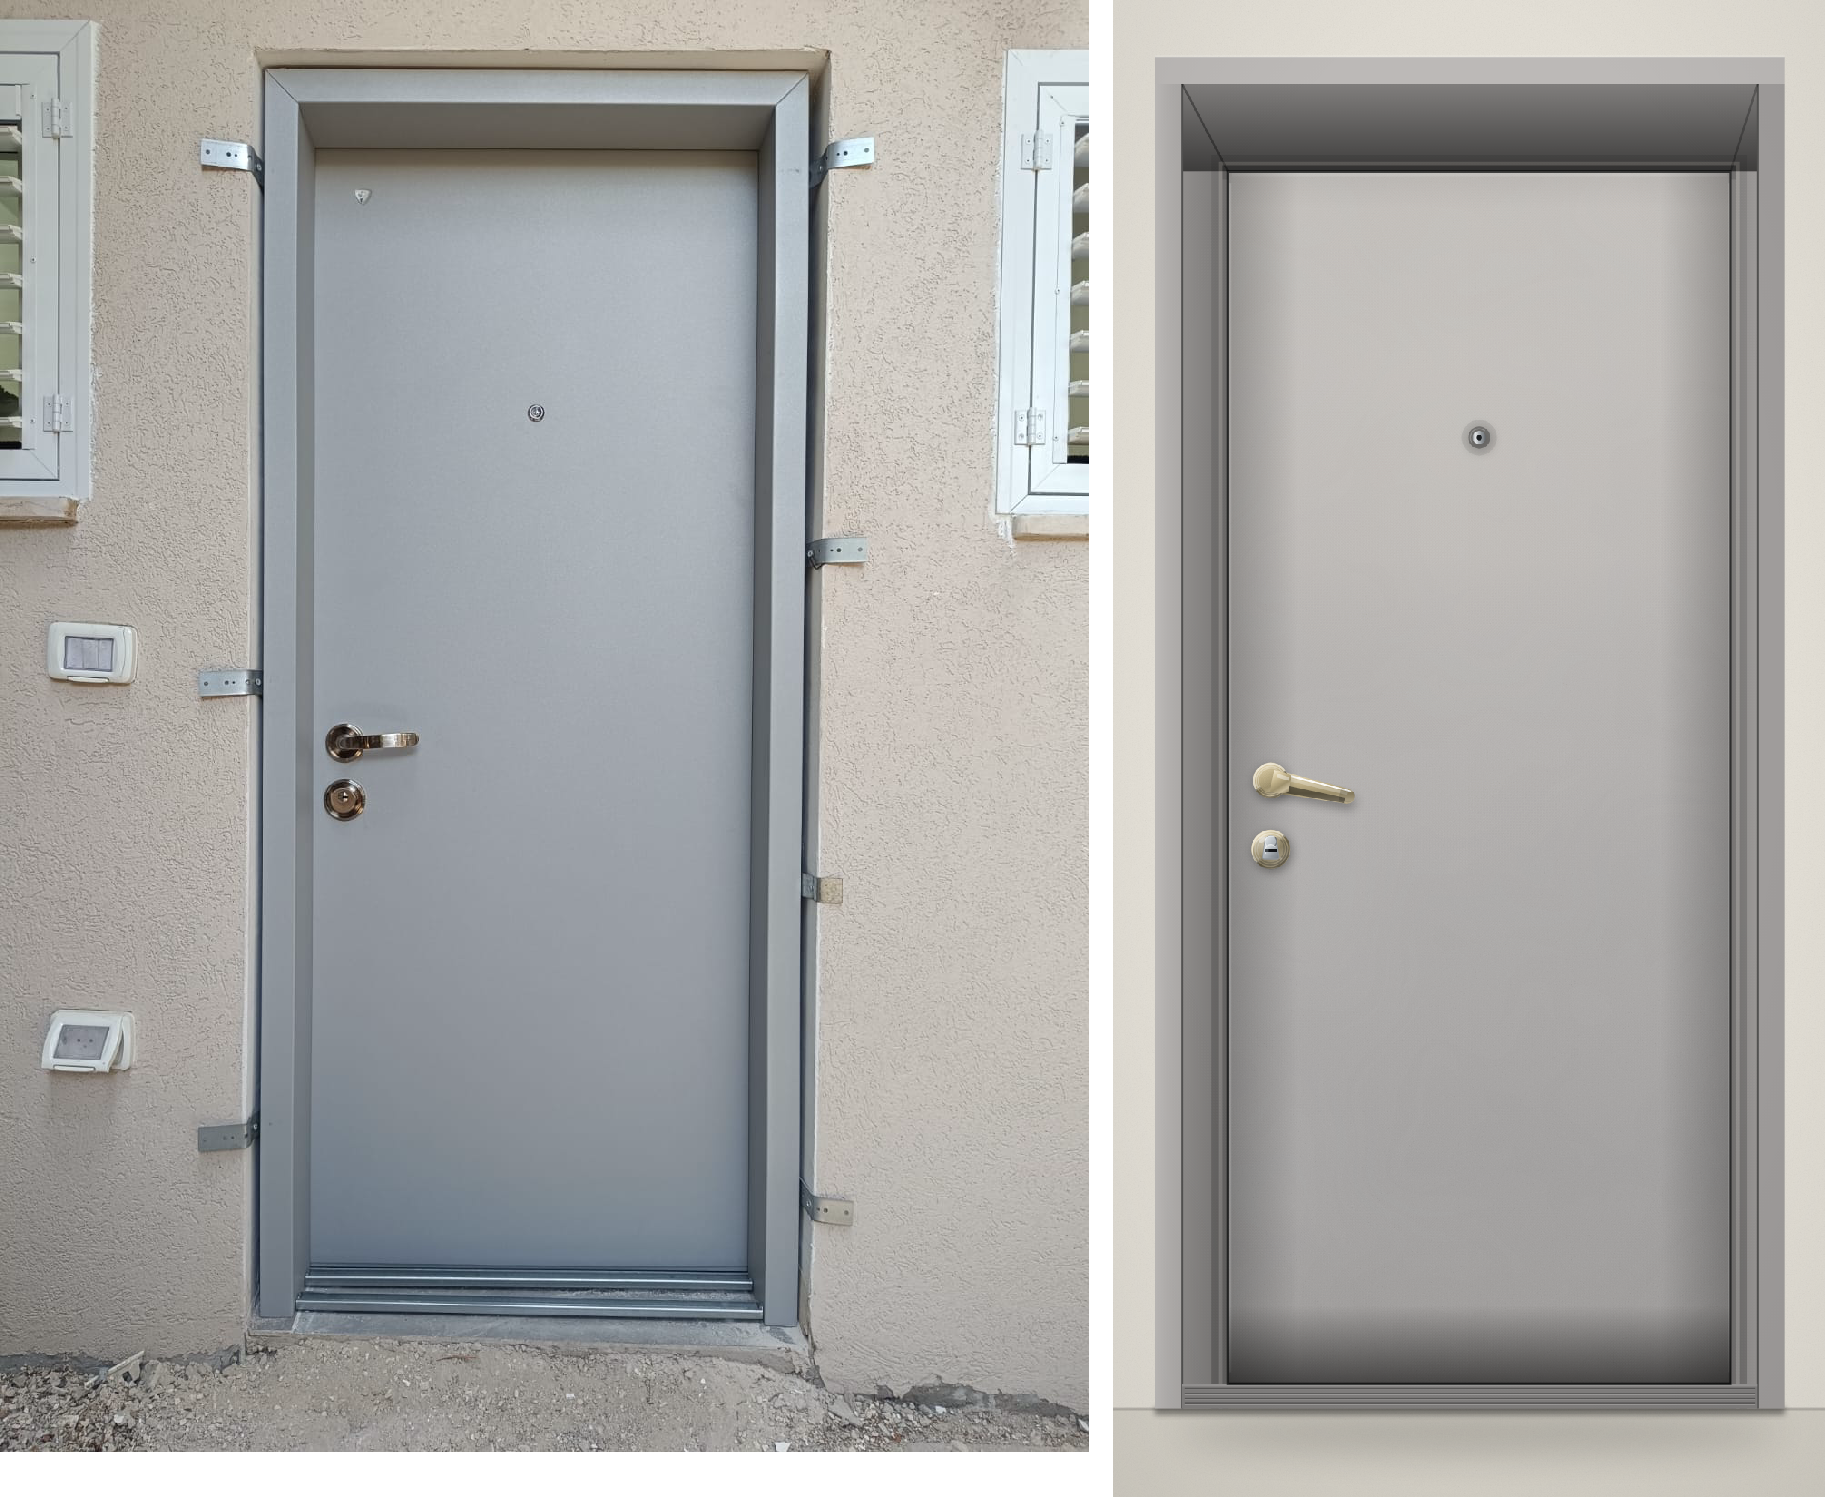
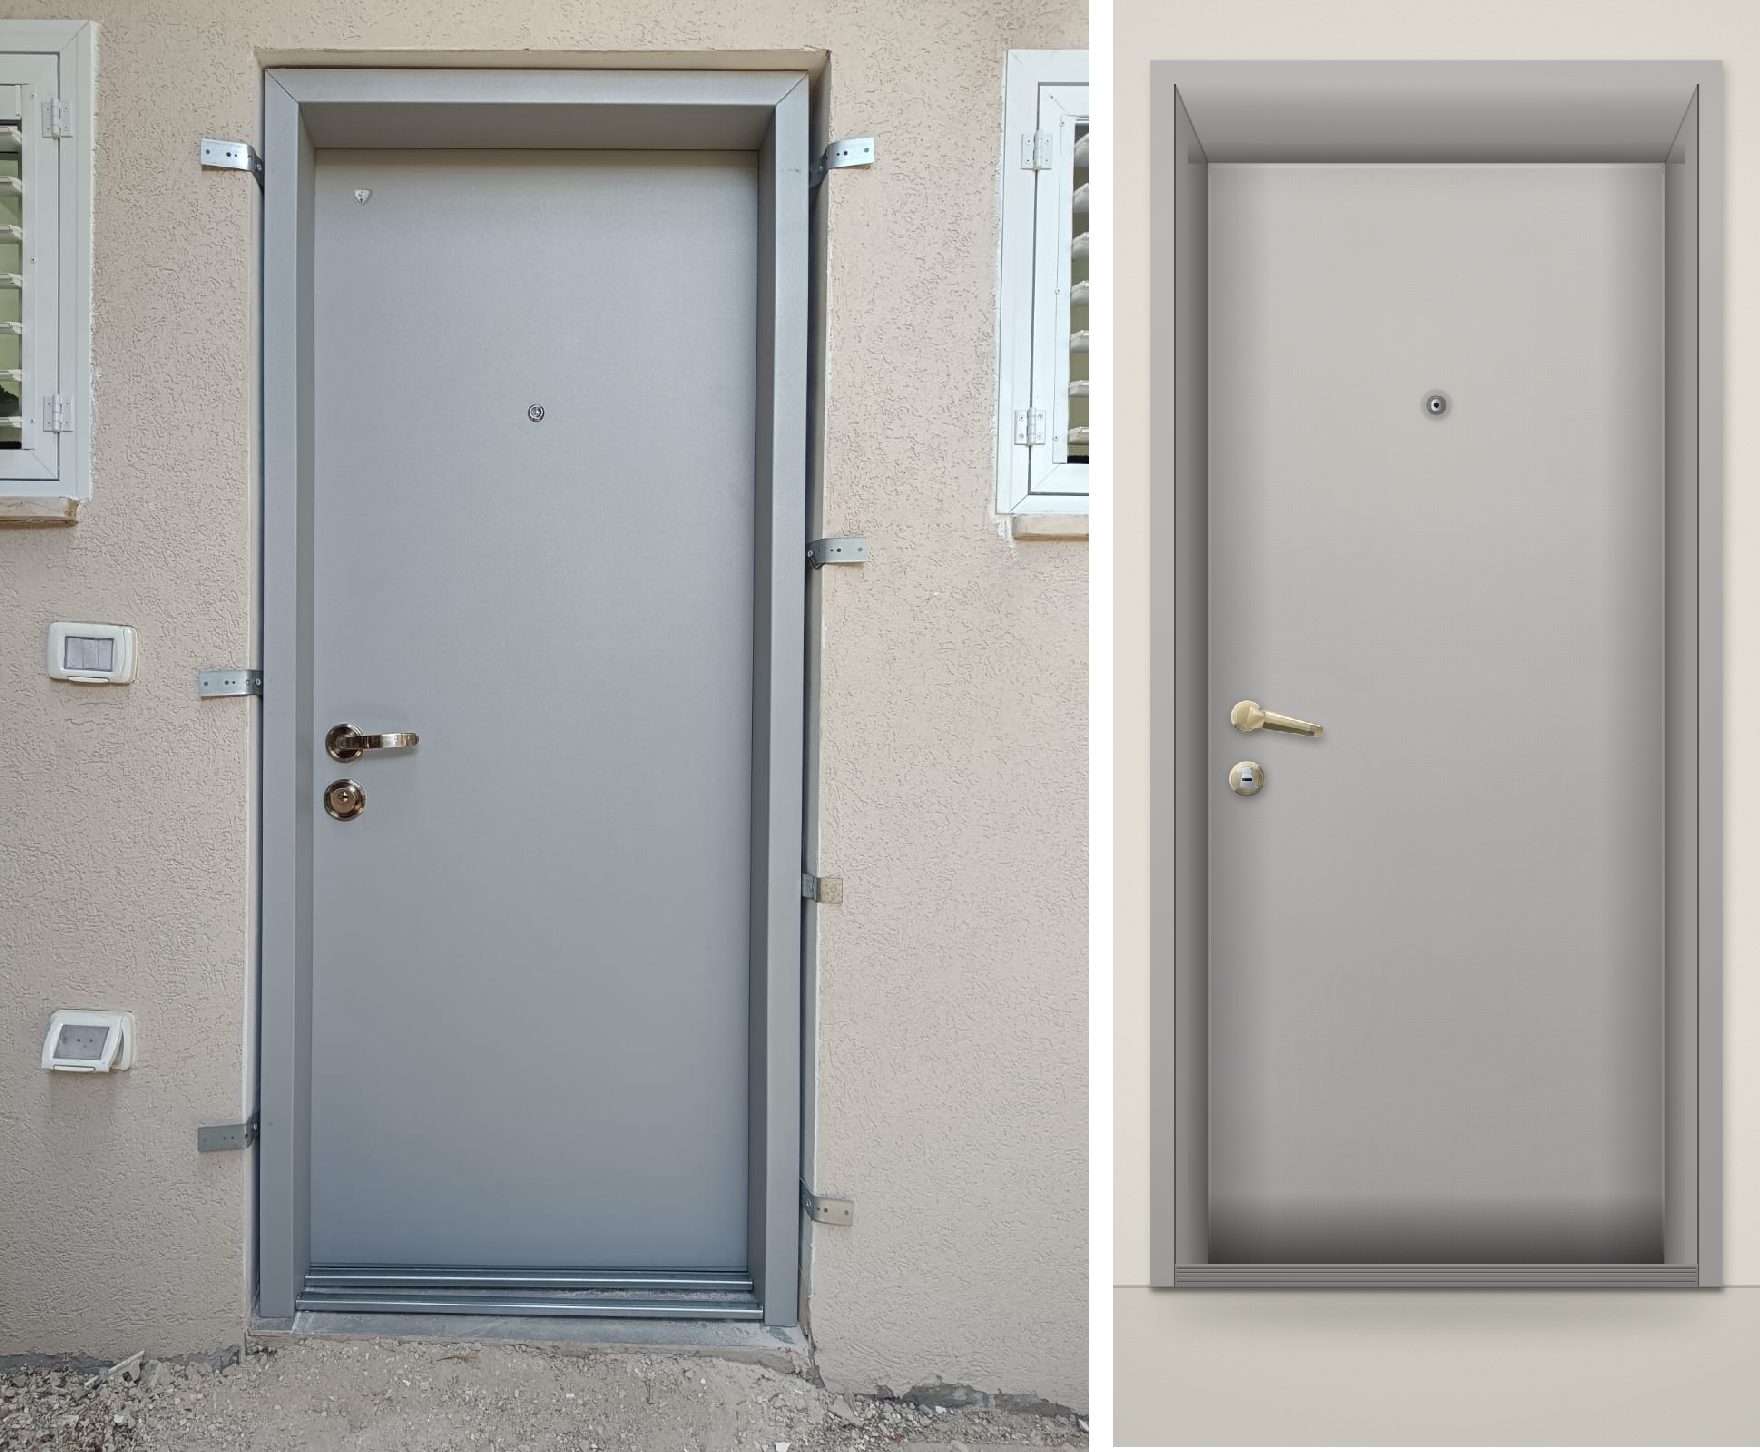
Measure the glass, and plan round four from what it says
Every round so far measured the leaf and the frame. The pane was tuned by
eye — too pale, then too dark, then landed on the corpus median tone and was
called finished. Tone was never the problem.

`npm run glass` samples every glazed door in the corpus in five horizontal
bands and records two numbers per band: the mean against the leaf's own
midpoint, and the spread between brightest and darkest pixel INSIDE that one
band. The second is the finding.

              top ──────────────────────────► bottom
photographs   tone    0.92  0.65  0.79  0.68  0.54
              spread  1.13  1.02  1.08  1.35  1.28
ours          tone    0.67  0.58  0.49  0.46  0.46
              spread  0.61  0.17  0.13  0.10  0.06

Our tone is defensible. Our spread is six times too small across the middle
of the pane and twenty times too small at its foot. In a real pane the light
and dark inside a single strip differ by more than the entire leaf's value,
because a window is not a surface — it is an aperture with a street behind
it: sky, foliage, a parked car, the dark of an unlit hall. We draw a smooth
vertical gradient with a soft sheen, which is a photograph of grey plastic.

The same mistake as the flat casing and the flat reveal, made once more on
the last surface still holding it: we keep drawing the average of a thing
instead of the thing.

The per-door numbers also split into two clean populations — spread above 1.0
and spread below 0.4 — which is not noise but a product option we do not
[…]

Changed region(s): [[0.0, 0.0, 1.0, 1.0], [0.0, 0.6508, 0.0938, 0.7438], [0.7812, 0.2789, 0.8438, 0.3099]]

diff --git a/REALISM.md b/REALISM.md
@@ -445,3 +445,170 @@ ours        (white)      contrast 1.24   profile 0.83 1 0.95 0.96 0.93 0.90 0.87
 here was tuned by eye against nothing, which is exactly why it kept landing at
 "slightly better." The comparison page from step 0 is not a nicety — it is the
 instrument, and without it this work will drift the same way.
+
+---
+
+## 7. Round four — what is left, and how to copy it
+
+Rounds one to three were driven by measurements of the *leaf* and the *frame*,
+and those two are now close. This round starts from a measurement nobody had
+taken, of the one surface that turned out to be furthest off.
+
+### 7.1 The finding: glass is the last flat thing we draw
+
+`tools/_glass.mjs` sampled every glazed door in `research/works/data2` in five
+horizontal bands across the pane, and recorded two numbers per band: the mean
+tone against the leaf's own midpoint, and — the number that matters — the
+**spread** between the brightest and darkest pixel inside that one band.
+
+```
+              top ──────────────────────────► bottom
+photographs   tone    0.92  0.65  0.79  0.68  0.54
+              spread  1.13  1.02  1.08  1.35  1.28
+
+ours          tone    0.67  0.58  0.49  0.46  0.46
+              spread  0.61  0.17  0.13  0.10  0.06
+```
+
+Our overall tone is defensible. Our **spread is six times too small across
+the middle of the pane and twenty times too small at its foot**. In a real
+pane the light and dark inside a single strip differ by
+*more than the entire leaf's value* — because a window is not a surface, it is
+an aperture with a street behind it: sky, foliage, a parked car, a person, the
+dark of an unlit hall. We draw a smooth vertical gradient with a soft sheen,
+which is a photograph of grey plastic.
+
+This is the same mistake as the flat casing and the flat reveal, made once
+more on the last surface still holding it: **we keep drawing the average of a
+thing instead of the thing.**
+
+The per-door numbers also split cleanly into two populations:
+
+```
+d128  spread 2.58 1.62 2.38 1.76 2.20     clear glass, street visible
+d099  spread 2.17 2.14 1.70 1.93 1.45     clear
+d108  spread 0.80 0.83 0.20 0.17 0.29     obscured / textured
+d113  spread 1.02 0.77 0.85 0.98 0.90     obscured with some transmission
+```
+
+That is not noise, it is **a product option we do not offer**: clear glazing
+versus obscured. Peretz sells both — you can see both on the works page — and
+a customer choosing a front door absolutely cares which one they get. It is
+also the single cheapest way to make the drawing honest, because obscured
+glass is the one case our current flat pane is nearly right for.
+
+### 7.2 The work, ordered by measured gap
+
+**G1 — Build the pane as a scene, not a fill.** *(largest gap by far)*
+
+Four layers, drawn inside the aperture and clipped to it:
+
+1. *Ground and sky.* A horizon at roughly 0.55 of the pane, sky above (cool,
+   above the leaf's value), ground below (warm, well under it). The measured
+   medians say bright-ish top, darkest at the foot.
+2. *Content with edges.* The spread number is the whole point: a real pane
+   contains **hard boundaries**, not gradients. Two or three soft-edged
+   verticals (a doorway opposite, a post, a fence), one horizontal ground
+   line, a couple of blurred organic blobs for planting. Blurred heavily —
+   depth of field and dirty glass both do that — but each one an actual edge.
+3. *Reflection.* One hard diagonal band of sky reflected off the pane, which
+   is what tells a viewer the surface is glass rather than a hole. We have
+   this (`sheen`); it is far too weak to survive layer 2.
+4. *The bars in front.* Grille and glazing bars are lit from the street, so
+   they sit brighter than most of what is behind them.
+
+The whole scene must be built from a small neutral palette and blurred enough
+that no one reads it as a picture of a specific place — it has to work behind
+seventeen door colours in a configurator, not illustrate one address.
+
+**G2 — Two glass types in the catalogue.** `clear` and `obscured`, priced,
+with the pane structure above for clear and something close to today's flat
+pane, plus a fine texture, for obscured. This wants Peretz's confirmation of
+what he stocks (add to ASK-PERETZ.md when the answer arrives).
+
+**G3 — The glazing surround is a moulding, not a bead.** Beside d097 the
+difference is immediate: the photograph has a wide moulded surround **in the
+door's own colour**, stepping down to the glass over 50–60 mm. Ours is a thin
+grey bead that reads as an aluminium sub-frame clipped into a hole. Reuse the
+existing recursive `bevel()`, in paint rather than in metal.
+
+**G4 — Paint texture must cross everything made of paint.** The raised
+panel's field, the applied strips' backing, the moulded surround — each is
+drawn as a flat fill *over* the leaf, which wipes out the grain and drift
+underneath. On a real door all of it is the same sprayed steel. Fix by
+drawing the texture layers **last**, over the whole leaf including its
+mouldings, instead of underneath them. Cheap, and it removes a "these are
+separate objects stuck on" quality that shows at every zoom level.
+
+**G5 — Panel proportion and moulding weight.** In d097 the lower panel is
+about 0.11 of leaf height with a fine double-line moulding; ours is 0.26 with
+a heavy chamfer that reads as a second, paler colour. Measure the panel
+rectangle and moulding width across the panelled doors in the corpus the way
+the reveal was measured, then set both from the median rather than by eye.
+
+**G6 — Grille motifs are rosettes, not S-curves.** The photograph's scroll is
+a symmetric medallion sitting inside the grid: four scrolls meeting at a
+centre. Ours is a lone S, which is a different ornament. Same for `lattice`
+and `scroll` — worth tracing from a flat-on photograph of each pattern rather
+than inventing.
+
+**G7 — Put the door somewhere.** The room is now infinite but it is a studio:
+flat plaster, flat floor, one horizon line. Real doorways sit against tile,
+stone cladding, render, with a skirting or a step, and the frame casts onto
+all of it. Low cost, high return, and it is the last thing between the
+drawing and a photograph. Deliberately kept generic: it must never look like
+someone else's house.
+
+### 7.3 What images would help, and exactly what each unlocks
+
+This is the part worth spending your effort on. Photographs are the only
+thing that has ever moved this work forward; everything tuned by eye against
+nothing has landed on "slightly better" and stayed there.
+
+In rough order of value:
+
+| # | What to shoot | How many | What it unlocks |
+|---|---|---|---|
+| 1 | **Glazed doors, square on, from the street, in daylight** — close enough that the pane fills most of the frame | 6–10 | G1. This is the biggest single gap in the drawing. Different times of day is a feature, not a problem: it tells us how much the pane changes and therefore how much we must not over-commit. |
+| 2 | **The same door with clear glass and with obscured glass**, if he installs both | 2–4 | G2. Settles whether it is one option or two, and what obscured actually looks like. |
+| 3 | **Close-ups of the moulding around the glass**, taken at a raking angle so the shadow shows the profile | 3–4 | G3. A profile can be read off a shadow; it cannot be read off a flat-on shot. |
+| 4 | **Close-ups of a lower panel's corner**, same raking light | 3–4 | G5. Same reason. |
+| 5 | **Each grille pattern flat on**, ideally against a bright interior so the ironwork reads as a silhouette | one per pattern | G6. Lets us trace the real motif instead of approximating it. |
+| 6 | **Each handle he actually stocks, at arm's length, on a door**, in each finish he sells it in | one per handle/finish | Finishes the hardware, and answers ASK-PERETZ 2b at the same time. |
+| 7 | **The frame where it meets the wall and the floor** — including the bottom corner where frame, threshold and floor all meet | 3–4 | G7, and the last unmeasured piece of the frame study. |
+| 8 | **One door photographed morning, midday and late afternoon** | 3 of one door | Would let us stop guessing the light and instead *choose* one defensible condition, knowing what we gave up. |
+
+Two things that make any photograph much more useful:
+
+- **Square on.** Every record carries a `skew` field and the off-axis ones are
+  the ones we cannot measure. Standing directly in front of the door, phone
+  held level at about chest height, is worth more than good lighting.
+- **One un-edited shot per subject if the phone allows it.** Phone HDR lifts
+  shadows hard, which is exactly the information the frame study needs.
+
+### 7.4 How this gets verified
+
+Extend the existing instrument rather than judging by eye:
+
+- `tools/_glass.mjs` becomes `npm run glass` and reports ours beside the
+  corpus, band by band, the same way `npm run frame` does for the reveal.
+- A new gate: **the spread inside every band of our pane must land inside the
+  corpus range for its glass type.** Tone alone is not enough — tone is what
+  we already match while looking wrong.
+- `npm run recreate` gains a case per glass type.
+- Every new option gets swept by the existing "priced options change the door"
+  and "every tile draws its own picture" tests, which is how the last three
+  invisible failures were caught.
+
+### 7.5 The failure mode to keep watching
+
+Three separate features have shipped that rendered as *nothing*: a grille with
+no matching branch, a panel that dropped itself when the leaf slimmed, a
+gradient deleted by a refactor while its reference stayed. Two more shipped
+that rendered as *the wrong thing quietly*: nine handles sharing one picture,
+and a finish option that charged money and changed no pixel.
+
+None of them threw. All of them looked like a working page. Tests catch wrong
+output easily and absent output almost never, unless someone goes looking on
+purpose — so every item above ships with an assertion about what must be
+**present and distinct**, not only about what must be correct.
